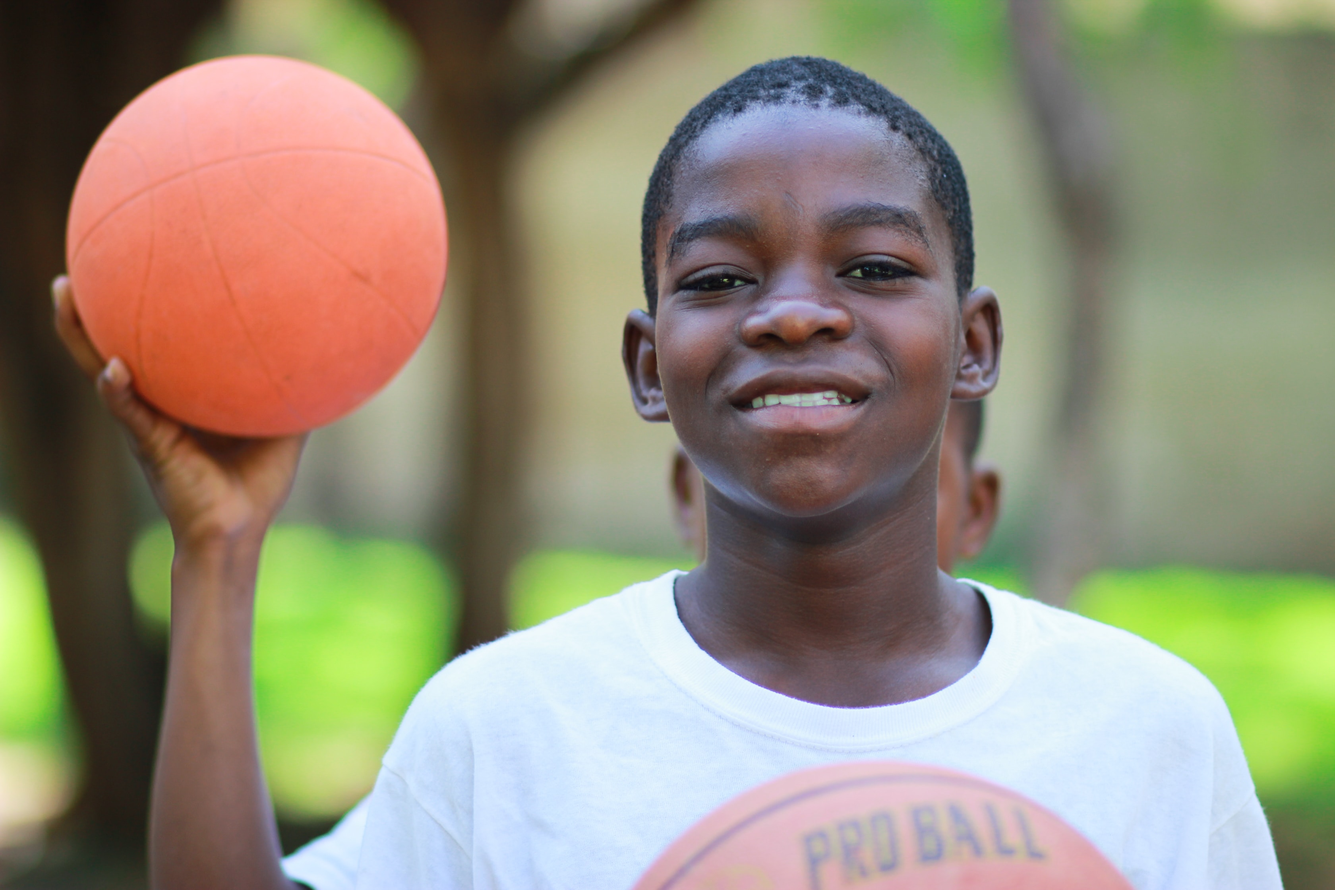
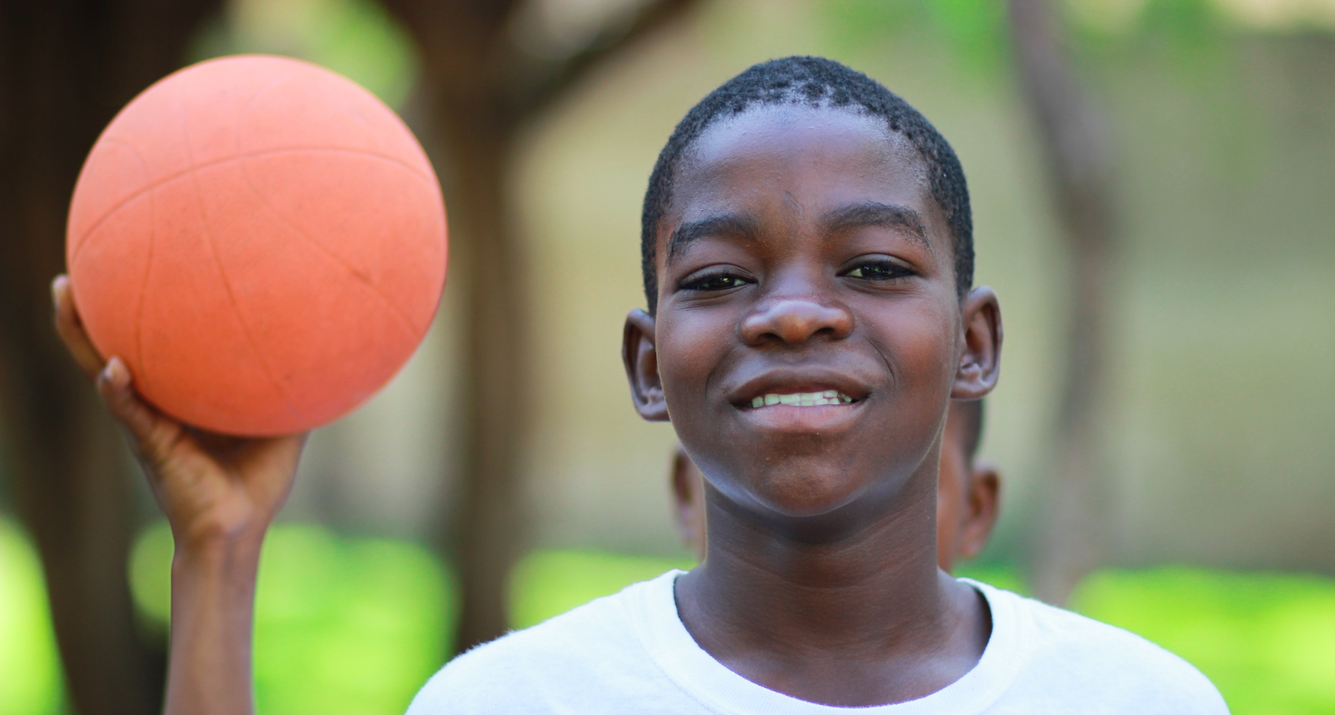
cropped images

diff --git a/src/App.js b/src/App.js
@@ -7,8 +7,7 @@ import Image1 from './assets/images/group-of-black-students.jpg';
 import Image2 from './assets/images/bailey.jpg';
 import Image3 from './assets/images/afroteensphone.jpg';
 
-const CarouselImageHeight = 625;
-const CarouselImageMaxHeight = 650;
+const CarouselImageHeight = 1200;
 
 const carouselData = [
   {
@@ -30,8 +29,7 @@ export default () => {
     return (
       <Carousel.Item>
         <Image
-          minHeight={CarouselImageHeight}
-          maxHeight={CarouselImageMaxHeight}
+          height={CarouselImageHeight}
           className="d-block w-100"
           src={item.image}
          />
